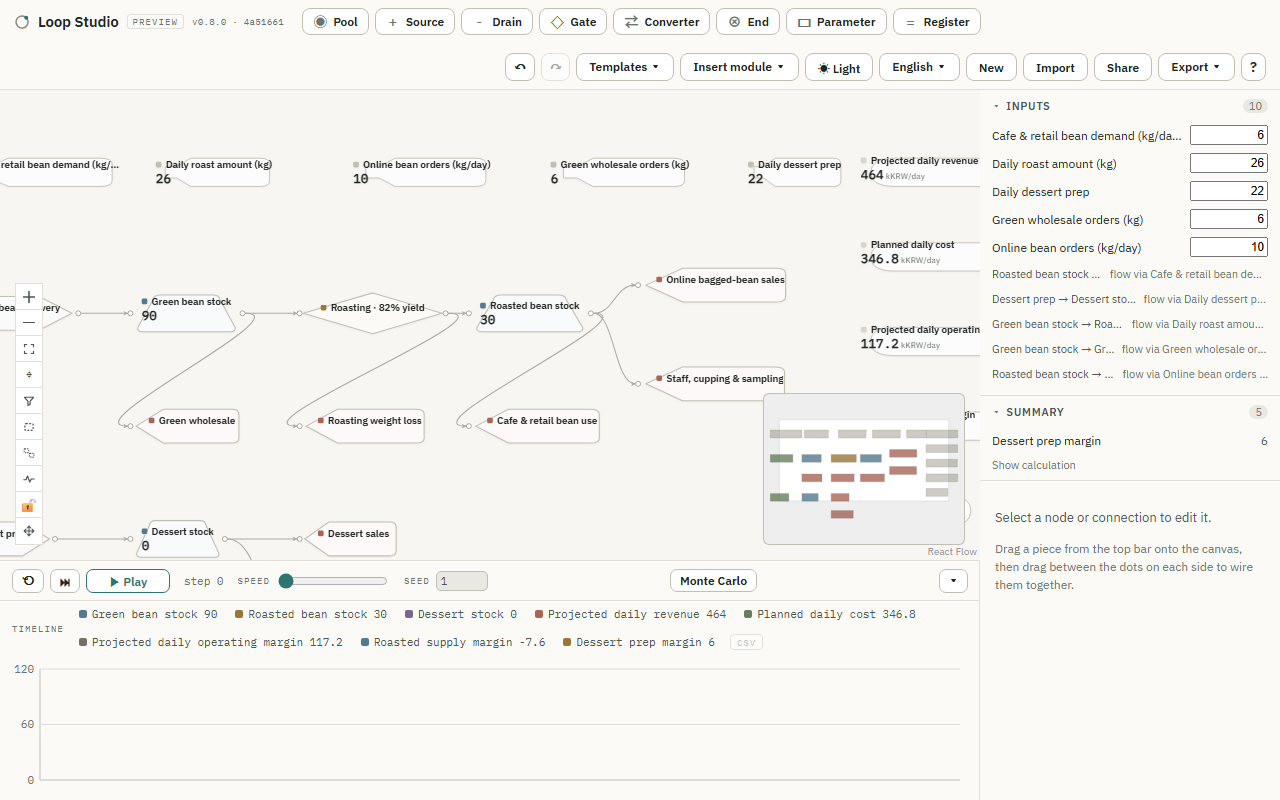
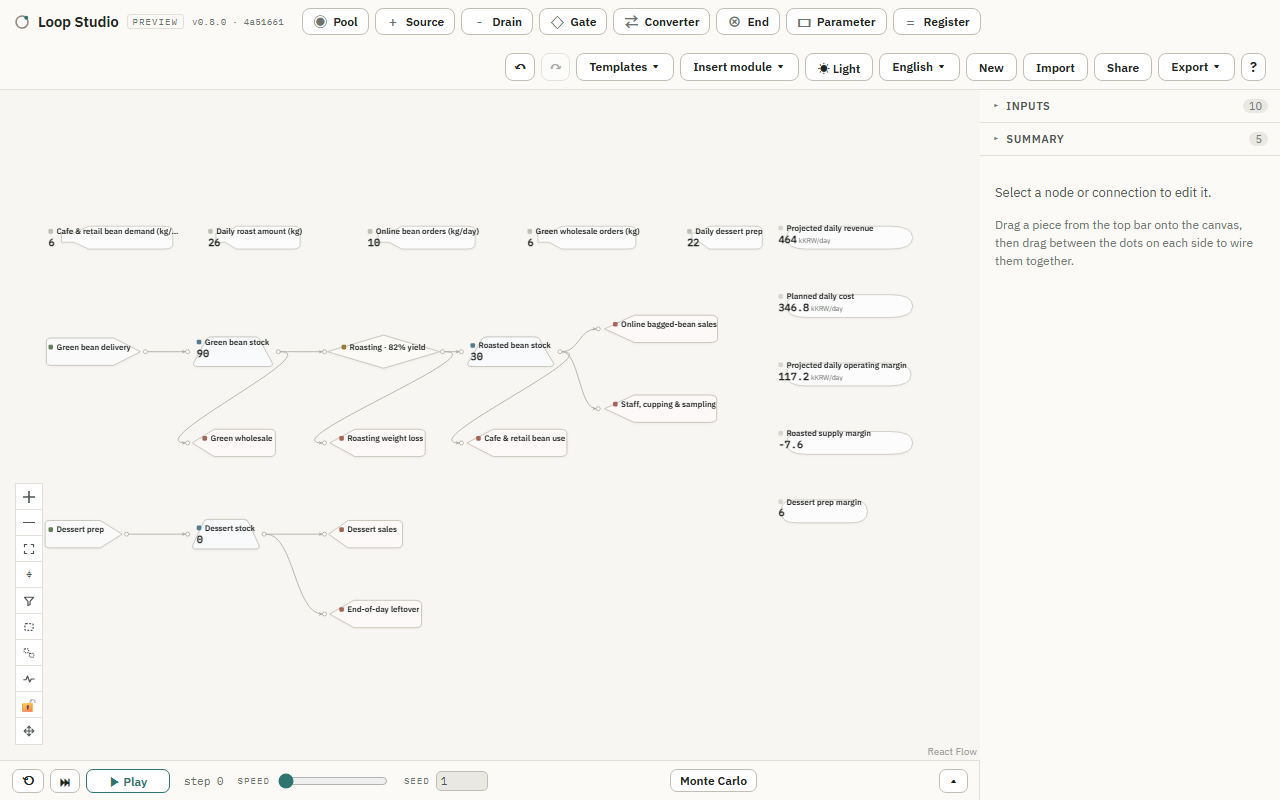
docs: re-shoot the Coffee structure image, tidy the hero
Review feedback on the first pass:
- The "operations flow" image was cropped left and right and its UI was
  nearly identical to the hero — low added value. Re-shot as a MODEL
  STRUCTURE view: Timeline hidden, both side panels collapsed, minimap
  hidden, fit-view so the whole graph is in frame (Parameters row →
  roast/sell flow → dessert sub-chain → Register column). Now clearly
  distinct from the hero's "run & results" framing.
- Hero: minimap hidden (it was visual noise on a small graph) and
  zoomed in ~12 % so node labels read at README display width.
- MMO Focus image unchanged (accepted as-is).

Alt text on all three is now descriptive of what the image shows.
Total docs/assets is ~420 KB for the three PNGs.

diff --git a/README.md b/README.md
@@ -85,17 +85,19 @@ continuous-time equations and spatial physics are not directly supported (see
 
 ## Screenshots
 
-**The Coffee roastery Template** — a small operations-flow economy: green
-beans arrive, get roasted, and leave as café/retail/online/dessert sales,
-with day-to-day Parameters driving five computed Register outputs.
+**The model** — the Coffee roastery Template is a small operations-flow
+economy: green beans arrive, get roasted (82 % yield), and leave as
+café / retail / online / dessert sales, with five day-to-day Parameters
+feeding five computed Register outputs (projected revenue, cost, operating
+margin, roasted-bean supply margin, dessert-prep margin).
 
-![Coffee roastery Template — the full operations flow](docs/assets/coffee-flow.png)
+![The full Coffee roastery graph — a Parameters row across the top, the roast-and-sell flow through the middle, a dessert sub-chain below, and a column of Register outputs on the right](docs/assets/coffee-flow.png)
 
-**Focus on a large graph** — the *Early MMO progression* example has 97 nodes.
-Selecting one and turning Focus on dims everything outside its immediate
-neighbourhood, so a dense graph stays readable without hiding anything.
+**Reading a large graph** — the *Early MMO progression* example has 97 nodes.
+Select one, turn Focus on, and everything outside its one-hop neighbourhood
+dims — nothing is hidden, so structure stays legible without losing context.
 
-![Focus mode on the Early MMO progression example — the selected node stays sharp, the rest dims](docs/assets/mmo-focus.png)
+![The 97-node Early MMO progression graph with Focus on: the selected "Level" pool and its direct neighbours are drawn solid, the other ~80 nodes are faded to a light grey](docs/assets/mmo-focus.png)
 
 ## Why
 
